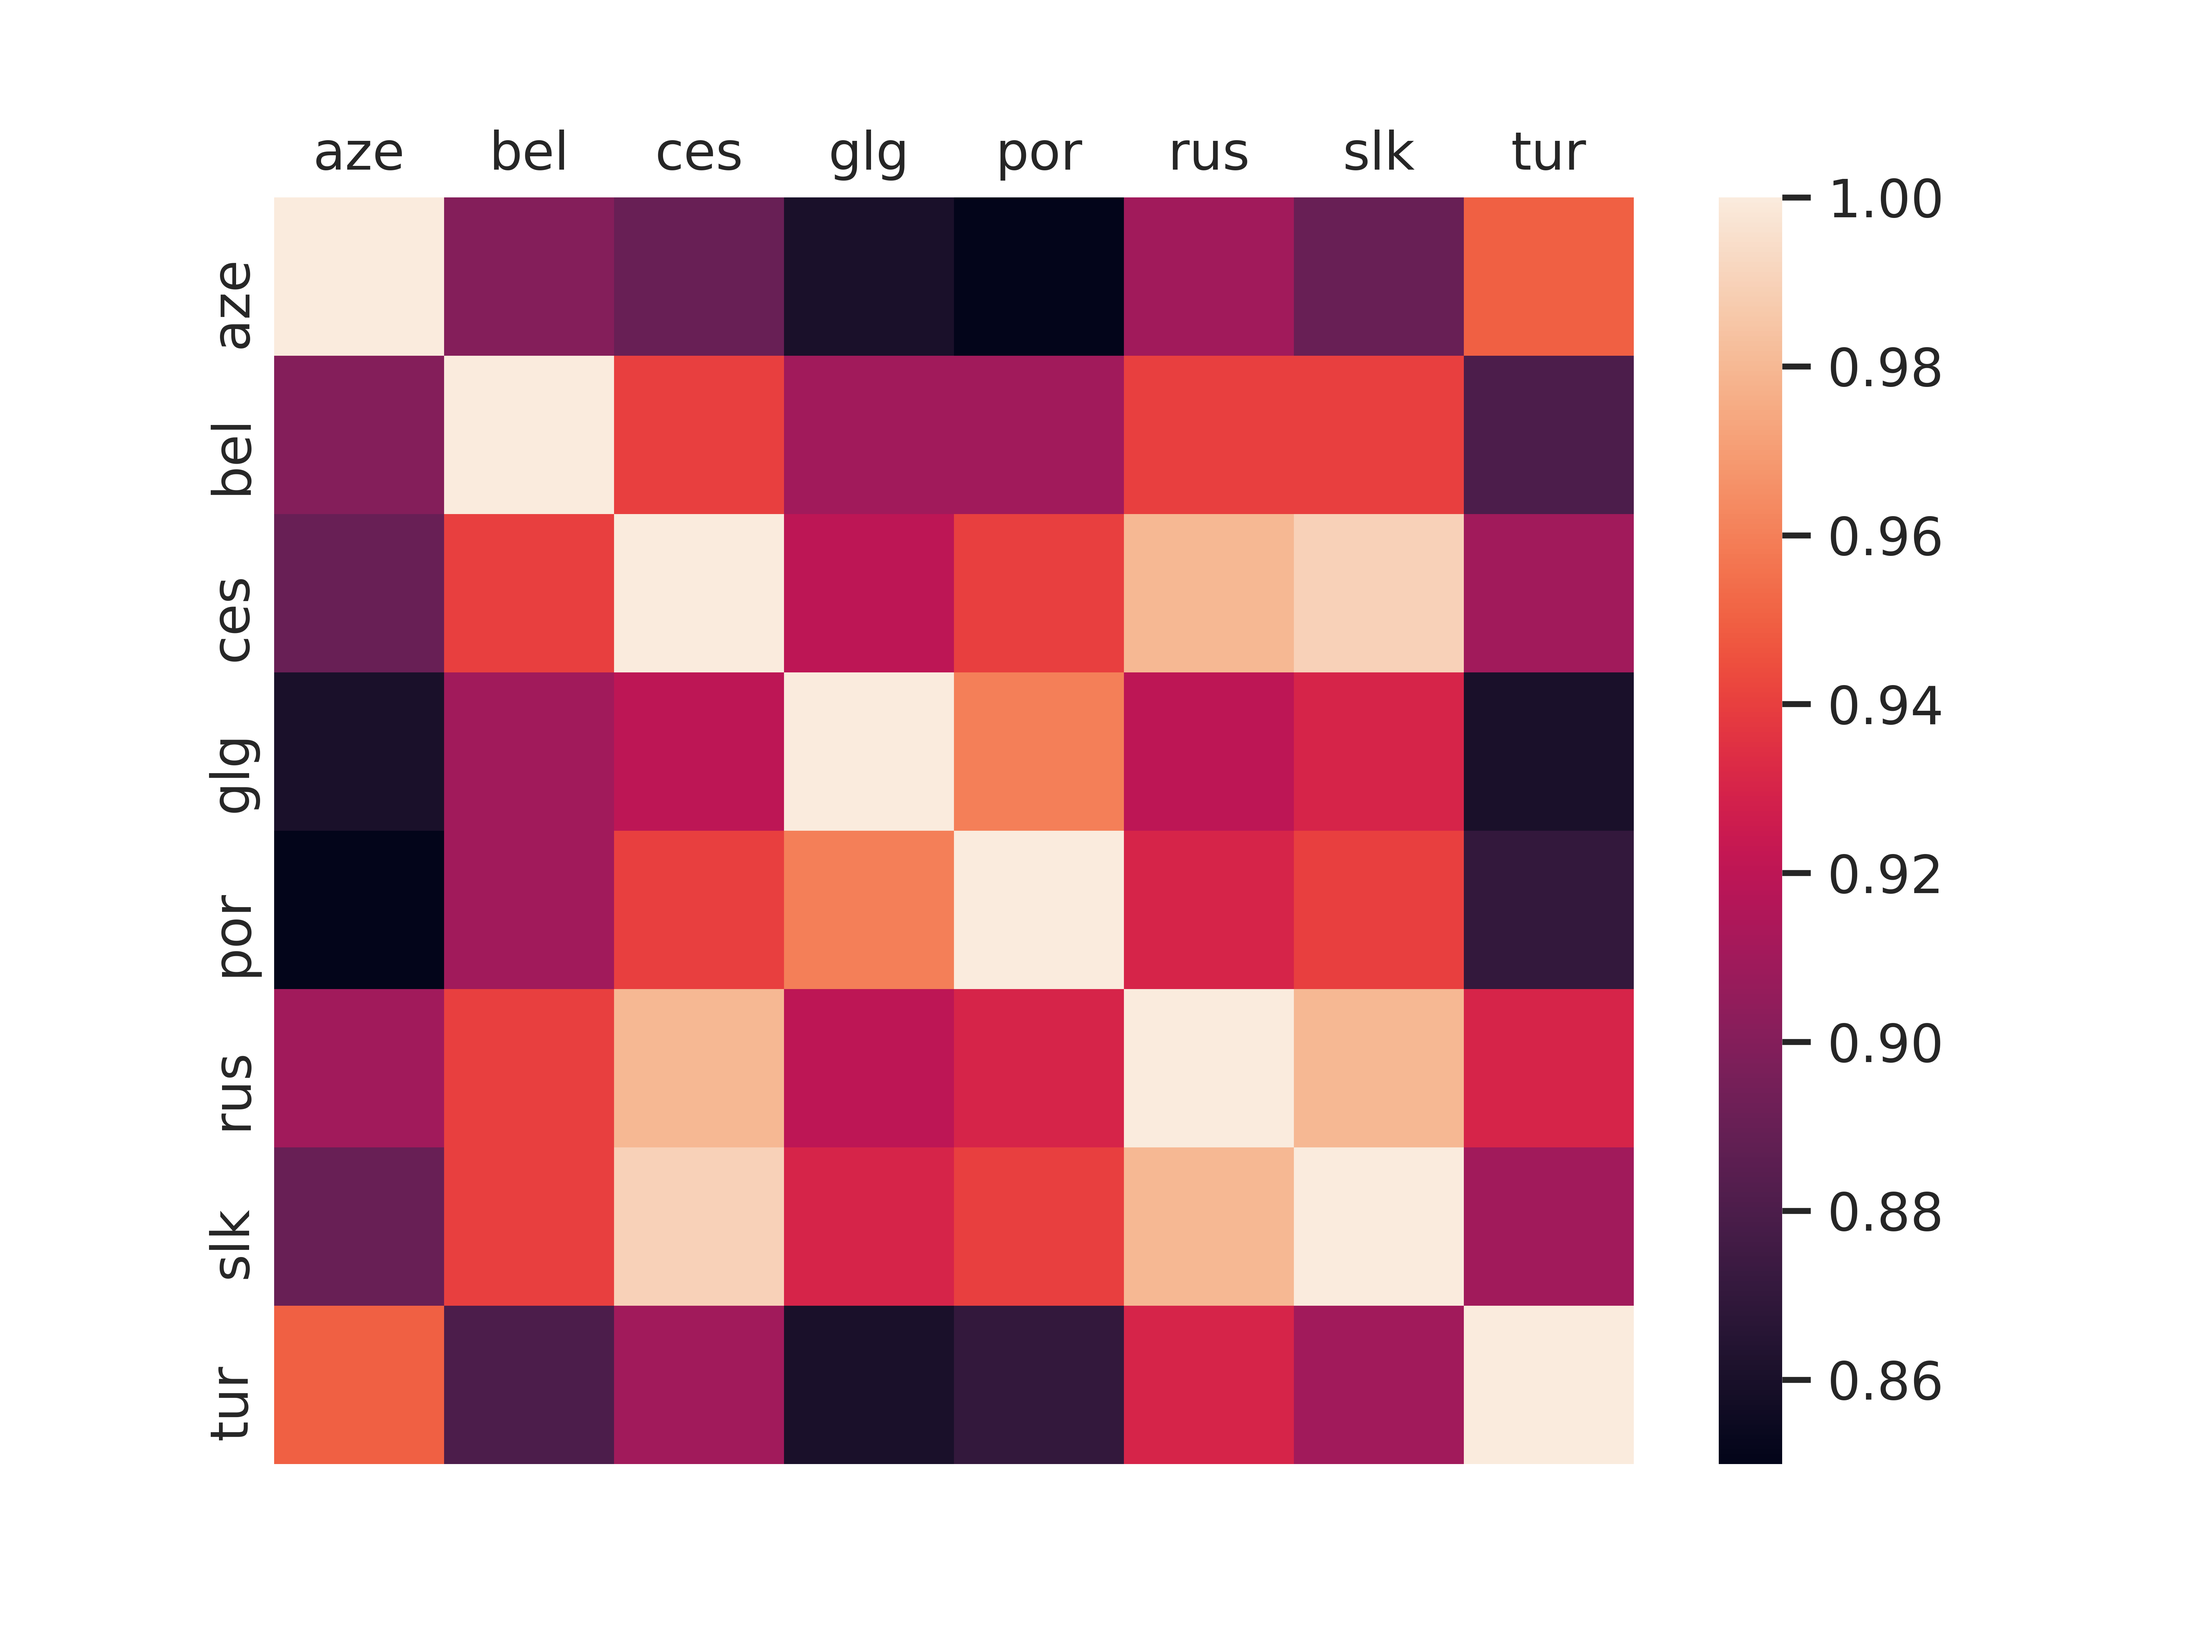
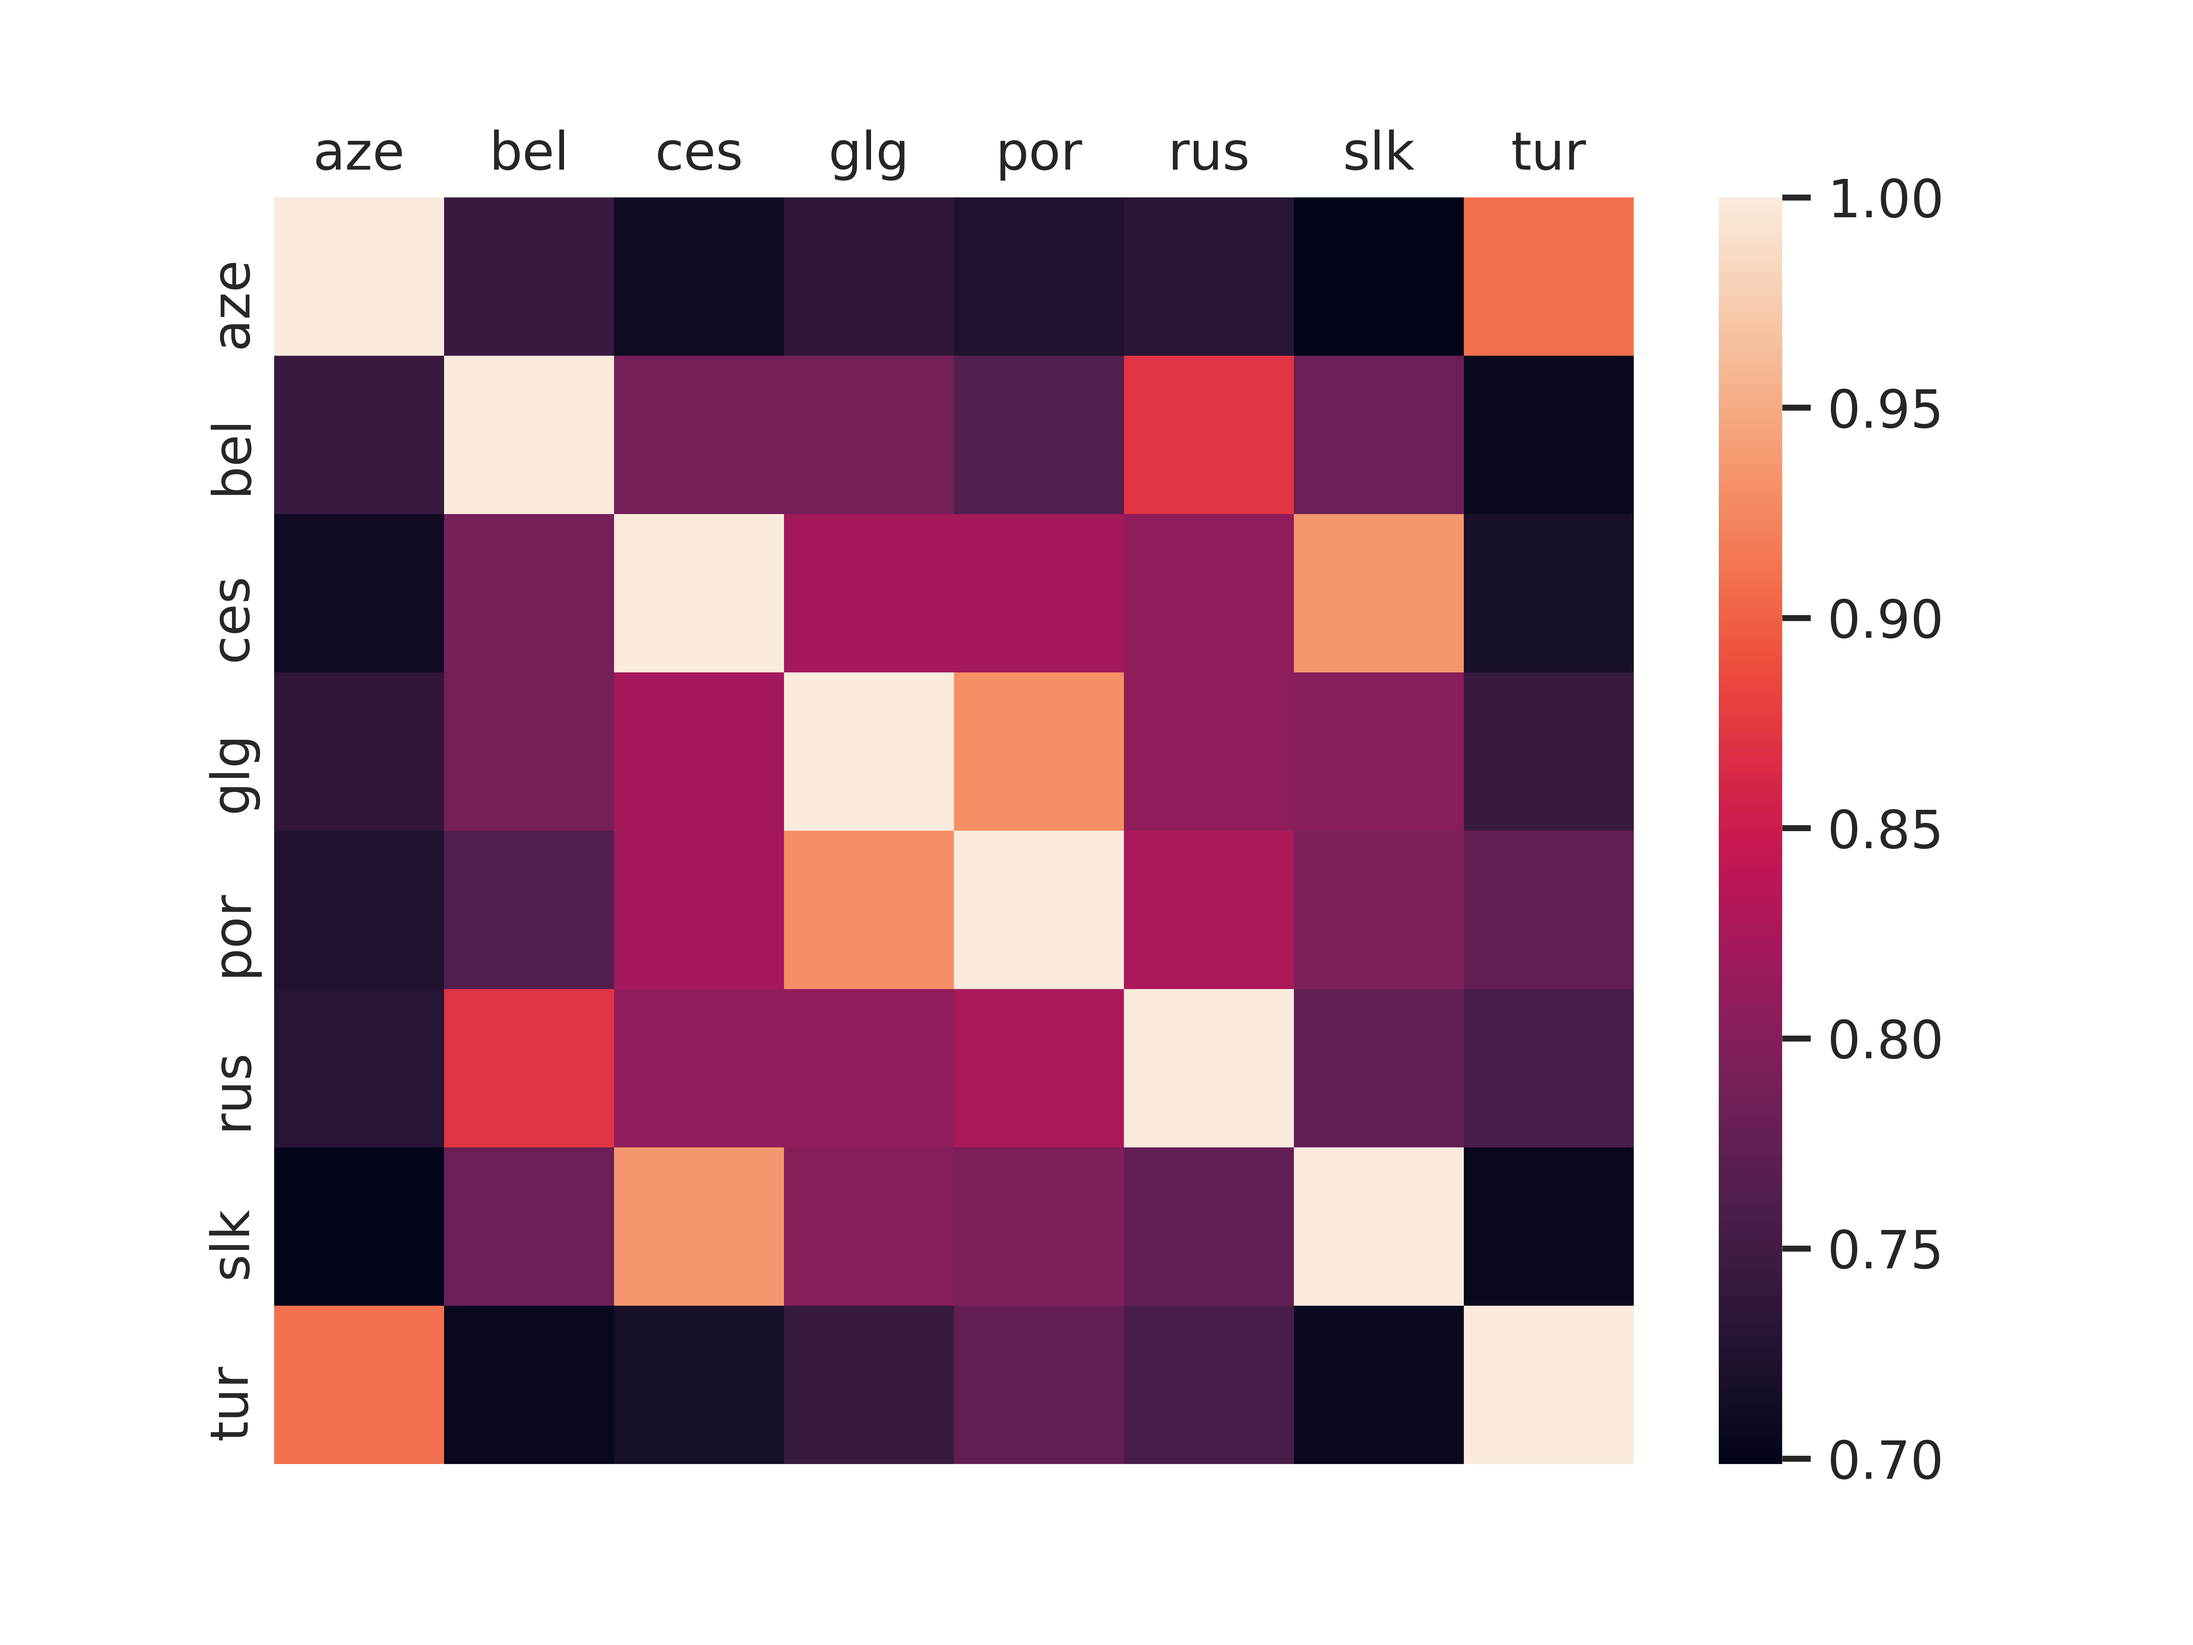
correct the heatmap

diff --git a/2022/acl/acl_latex.tex b/2022/acl/acl_latex.tex
@@ -476,7 +476,7 @@ This section compares the sub-networks learnt for each domain or language pair b
   \caption{Multilingual}
   \label{fig:ml-heatmap}
 \end{subfigure}
-\caption{Heatmap visualization of the similarities between dropout masks of domains(languages)}
+\caption{Heatmap visualization of the similarities between dropout masks of domains(languages). Brighter colors correspond to higher similarity scores.}
 \label{fig:heatmap}
 \end{figure}
 
@@ -497,7 +497,7 @@ This section compares the sub-networks learnt for each domain or language pair b
 %  \label{tab:fuzzy-sim}
 %\end{table*}      
 
-For multilingual (TED-related) experiments, the training data contains four language families: (1) Turkic, with Azerbaijani and Turkish(\domain{aze},\domain{tur}); (2) Slavic, with Belarusian and Russian (\domain{bel},\domain{rus}); (3) Romance, with Galician and Portuguese (\domain{glg}, \domain{por}); and (4) Czech-Slovak, with Slovak and Czech (\domain{ces}, \domain{slk}). The similarities between the sub-networks for each pair are respectively 0.95, 0.94, 0.99 and 0.96: for each language, the most similar language is always from the same language family. We provide in Figure~\ref{fig:ml-heatmap} the heatmap of the similarities between the dropout masks of our objective languages.
+For multilingual (TED-related) experiments, the training data contains four language families: (1) Turkic, with Azerbaijani and Turkish(\domain{aze},\domain{tur}); (2) Slavic, with Belarusian and Russian (\domain{bel},\domain{rus}); (3) Romance, with Galician and Portuguese (\domain{glg}, \domain{por}); and (4) Czech-Slovak, with Slovak and Czech (\domain{ces}, \domain{slk}). We provide in Figure~\ref{fig:ml-heatmap} the heatmap of the similarities between the dropout masks of our objective languages. We observe that each pair of languages in the same family correspond to brightest color except the diagonal in every column or every row.
 %\begin{table*}[h!]
 %  \centering
 %  \begin{tabular}{|p{1cm}|*{8}{r|}} \hline
